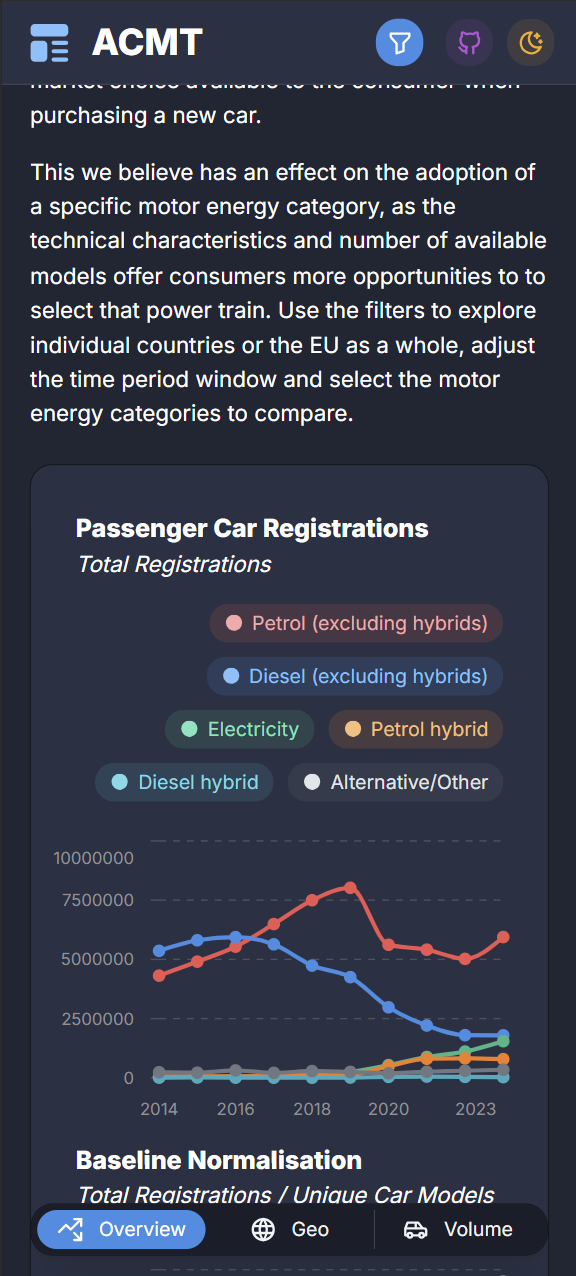
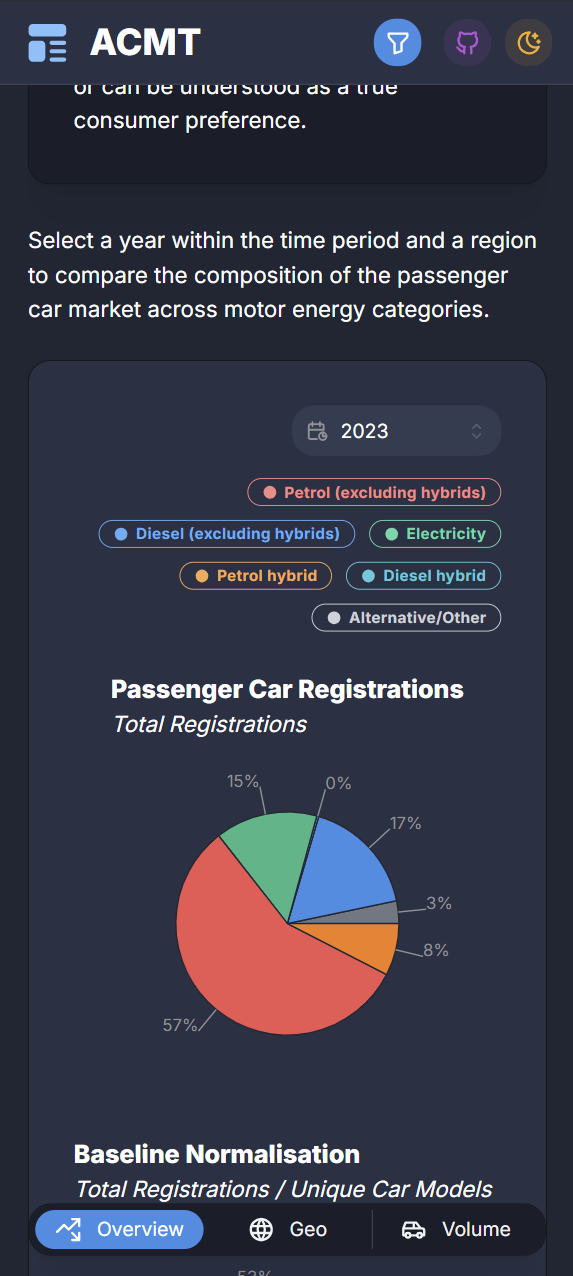
Add new asset images and update README with dashboard previews

diff --git a/dashboard/README.md b/dashboard/README.md
@@ -1,10 +1,72 @@
 # Dashboard
 
-This dashboard can be run either using Docker or a standard Python virtual environment. The complete dashboard is contained in the current `dashboard/` folder, with `requirements.txt` and the `Dockerfile` in the repository root.
+This directory contains the source code for the interactive dashboard developed to explore the evolution of new passenger car registrations in Europe.
 
-## Running with Docker
+The **About Car Market Trends** dashboard provides visualisations for vehicle registrations, manufacturer rankings, available vehicle choice and a geographical view.
 
-From the repository root, build the Docker image:
+## 📊 Preview
+
+<div align="center">
+
+<table>
+  <tr>
+    <td align="center">
+      <img src="../assets/overview-desktop.png" width="100%" alt="Dashboard desktop overview">
+    </td>
+    <td align="center">
+      <img src="../assets/geo-desktop.png" width="100%" alt="Dashboard desktop geo">
+    </td>
+    <td align="center">
+      <img src="../assets/volume-desktop.png" width="100%" alt="Dashboard desktop volume">
+    </td>
+  </tr>
+  <tr>
+    <td align="center">
+      <sub><b>Desktop, Overview</b></sub>
+    </td>
+    <td align="center">
+      <sub><b>Desktop, Geo</b></sub>
+    </td>
+    <td align="center">
+      <sub><b>Desktop, Volume</b></sub>
+    </td>
+  </tr>
+  <tr>
+    <td align="center">
+      <img src="../assets/overview-mobile.png" width="45%" alt="Dashboard mobile overview">
+    </td>
+    <td align="center">
+      <img src="../assets/geo-mobile.png" width="45%" alt="Dashboard mobile geo">
+    </td>
+    <td align="center">
+      <img src="../assets/volume-mobile.png" width="45%" alt="Dashboard mobile volume">
+    </td>
+  </tr>
+  <tr>
+    <td align="center">
+      <sub><b>Mobile, Overview</b></sub>
+    </td>
+    <td align="center">
+      <sub><b>Mobile, Geo</b></sub>
+    </td>
+    <td align="center">
+      <sub><b>Mobile, Volume</b></sub>
+    </td>
+  </tr>
+</table>
+
+</div>
+
+## 🚀 Running
+
+This dashboard can be run either using Docker or a standard Python virtual environment. 
+
+> [!IMPORTANT]
+> The complete dashboard with the necessary files is contained in the current `dashboard/` folder, whereas the `requirements.txt` and the `Dockerfile` are in the repository root.
+
+### 🐳 Running with Docker
+
+From the **repository root**, build the Docker image:
 
 ```bash
 docker build -t my-dashboard .
@@ -34,9 +96,9 @@ Stop the dashboard with:
 docker stop my-dashboard
 ```
 
-## Running with a Python Virtual Environment
+### 🐍 Running with a Python Virtual Environment
 
-From the repository root, create a virtual environment:
+From the **repository root**, create a virtual environment:
 
 ```bash
 python3 -m venv .venv

diff --git a/technical_report/README.md b/technical_report/README.md
@@ -11,7 +11,7 @@ Download the following datasets, rename them as indicated below, and place them 
 1. [Eurostat - New passenger cars by type of motor energy and engine size](https://ec.europa.eu/eurostat/databrowser/view/road_eqr_carmot/default/table?lang=en&category=road.road_eqr) as *"1_eurostat_new_passenger_cars_by_type_of_motor_energy_and_engine_size.csv"*
 2. [Eurostat - New passenger cars by type of motor energy](https://ec.europa.eu/eurostat/databrowser/view/road_eqr_carpda/default/table?lang=en&category=road.road_eqr) as *"2_eurostat_new_passenger_cars_by_type_of_motor_energy.csv"*
 3. [UNECE - New passenger car registrations by fuel type (detailed)](https://w3.unece.org/PXWeb2015/pxweb/en/STAT/STAT__40-TRTRANS__03-TRRoadFleet/09_en_TRRoadNewPasVh_r.px/) as *"3_unece_new_passenger_car_registrations_by_fuel type_(detailed).csv"*
-4. [EEA - Monitoring of CO2 emissions from passenger cars Regulation (EU) 2019/631](https://www.eea.europa.eu/en/datahub/datahubitem-view/fa8b1229-3db6-495d-b18e-9c9b3267c02b) as *"4_eea_co2_emissions_from_passenger_cars.csv"*
+4. [EEA - Monitoring of CO2 emissions from passenger cars Regulation (EU) 2019/631](https://www.eea.europa.eu/en/datahub/datahubitem-view/fa8b1229-3db6-495d-b18e-9c9b3267c02b) as *"4_eea_co2_emissions_from_passenger_cars-001.csv"*
 
 ### ⚙ Prerequisites
 
@@ -36,9 +36,9 @@ Download the following datasets, rename them as indicated below, and place them 
    pip install -r requirements.txt
    ```
 3. Navigate to this directory:
-```bash
-   cd technical_report
-```
+   ```bash
+      cd technical_report
+   ```
 
 ### 💾 Obtaining the Preprocessed Datasets
 
